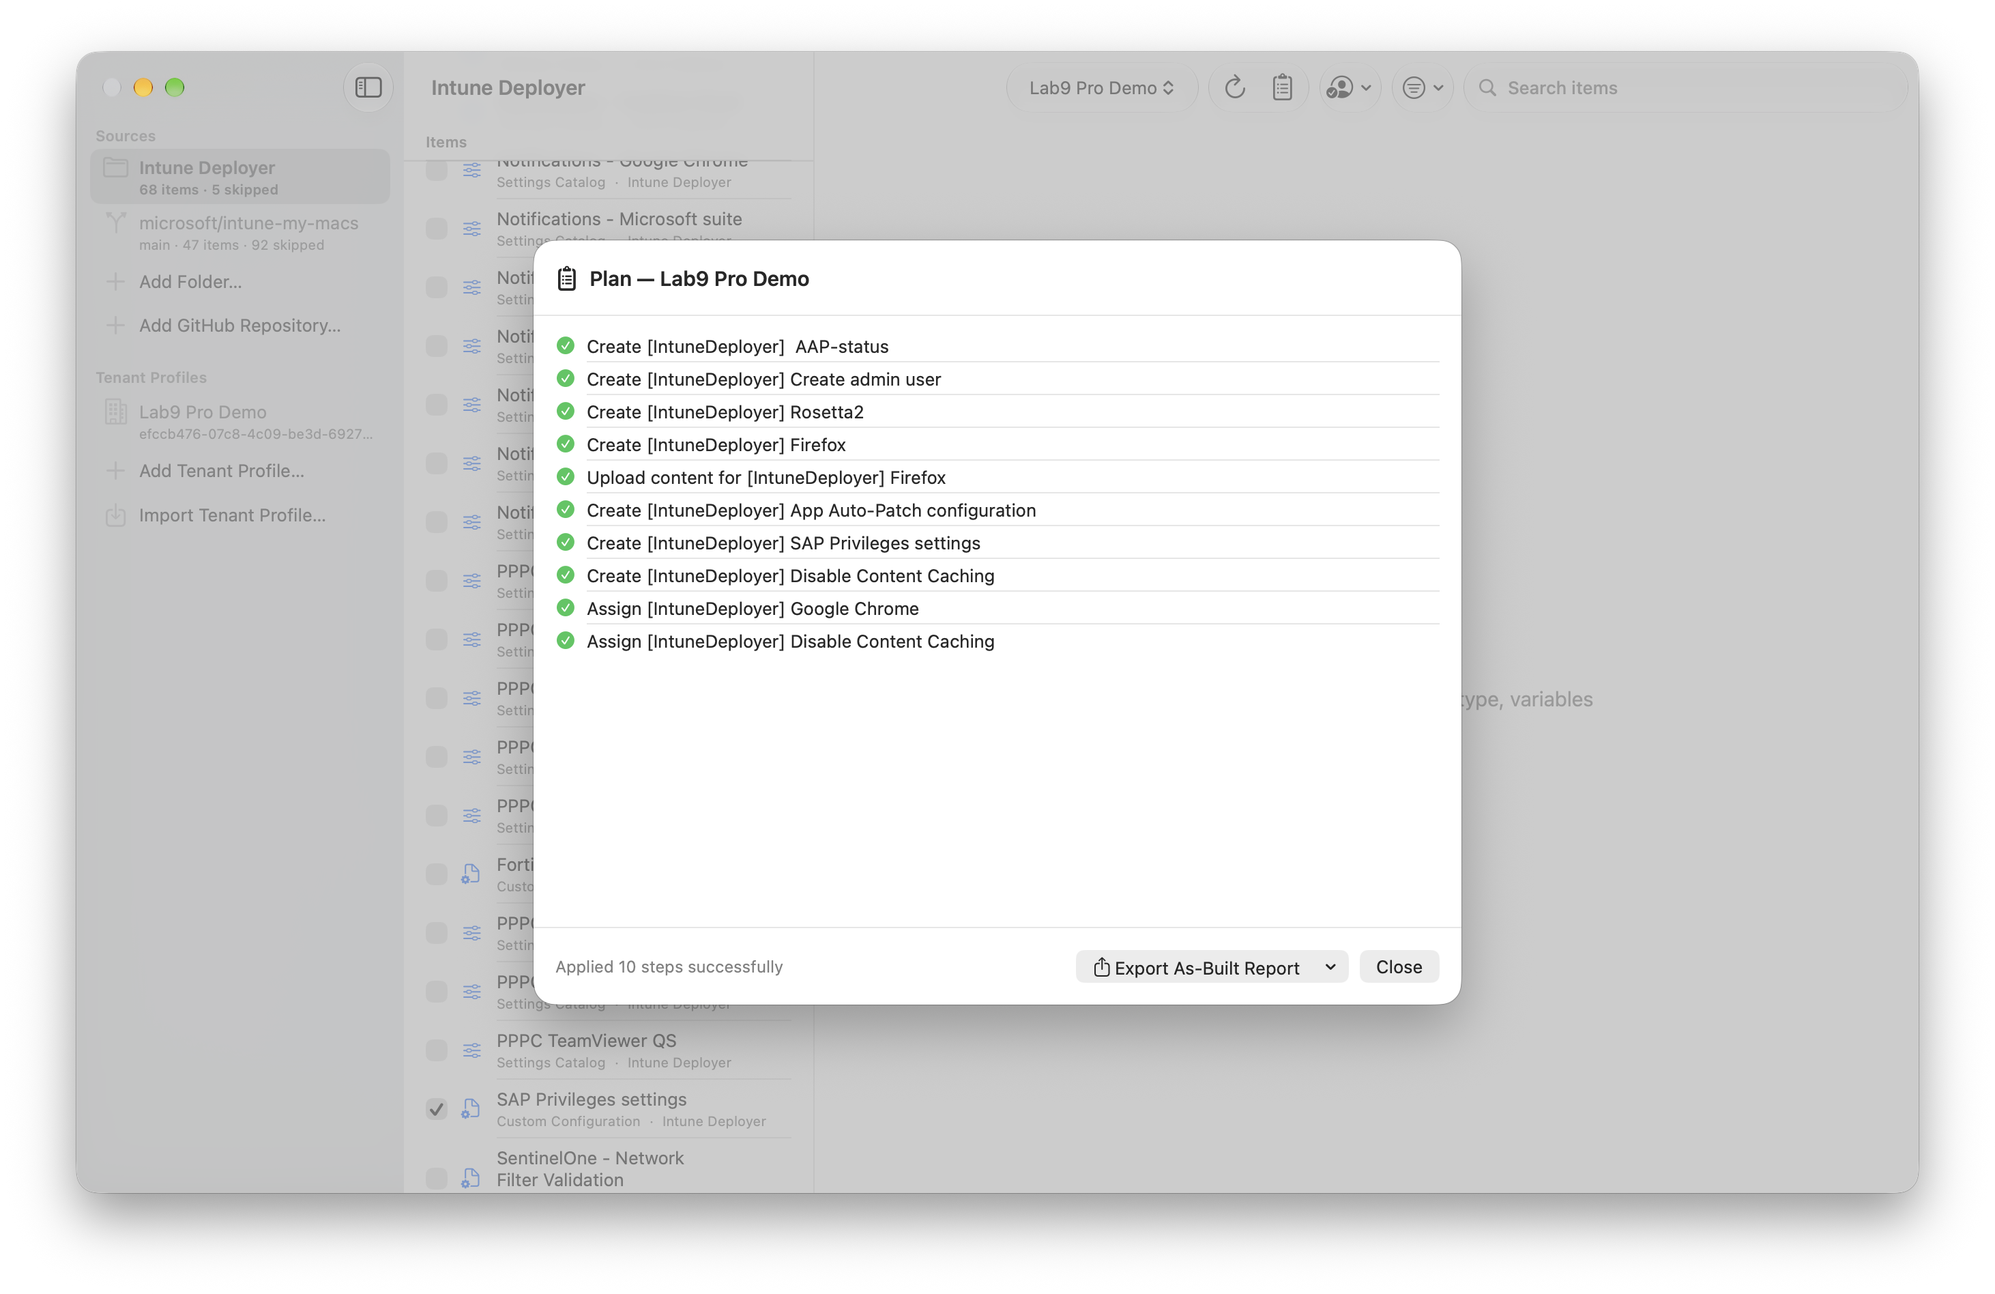
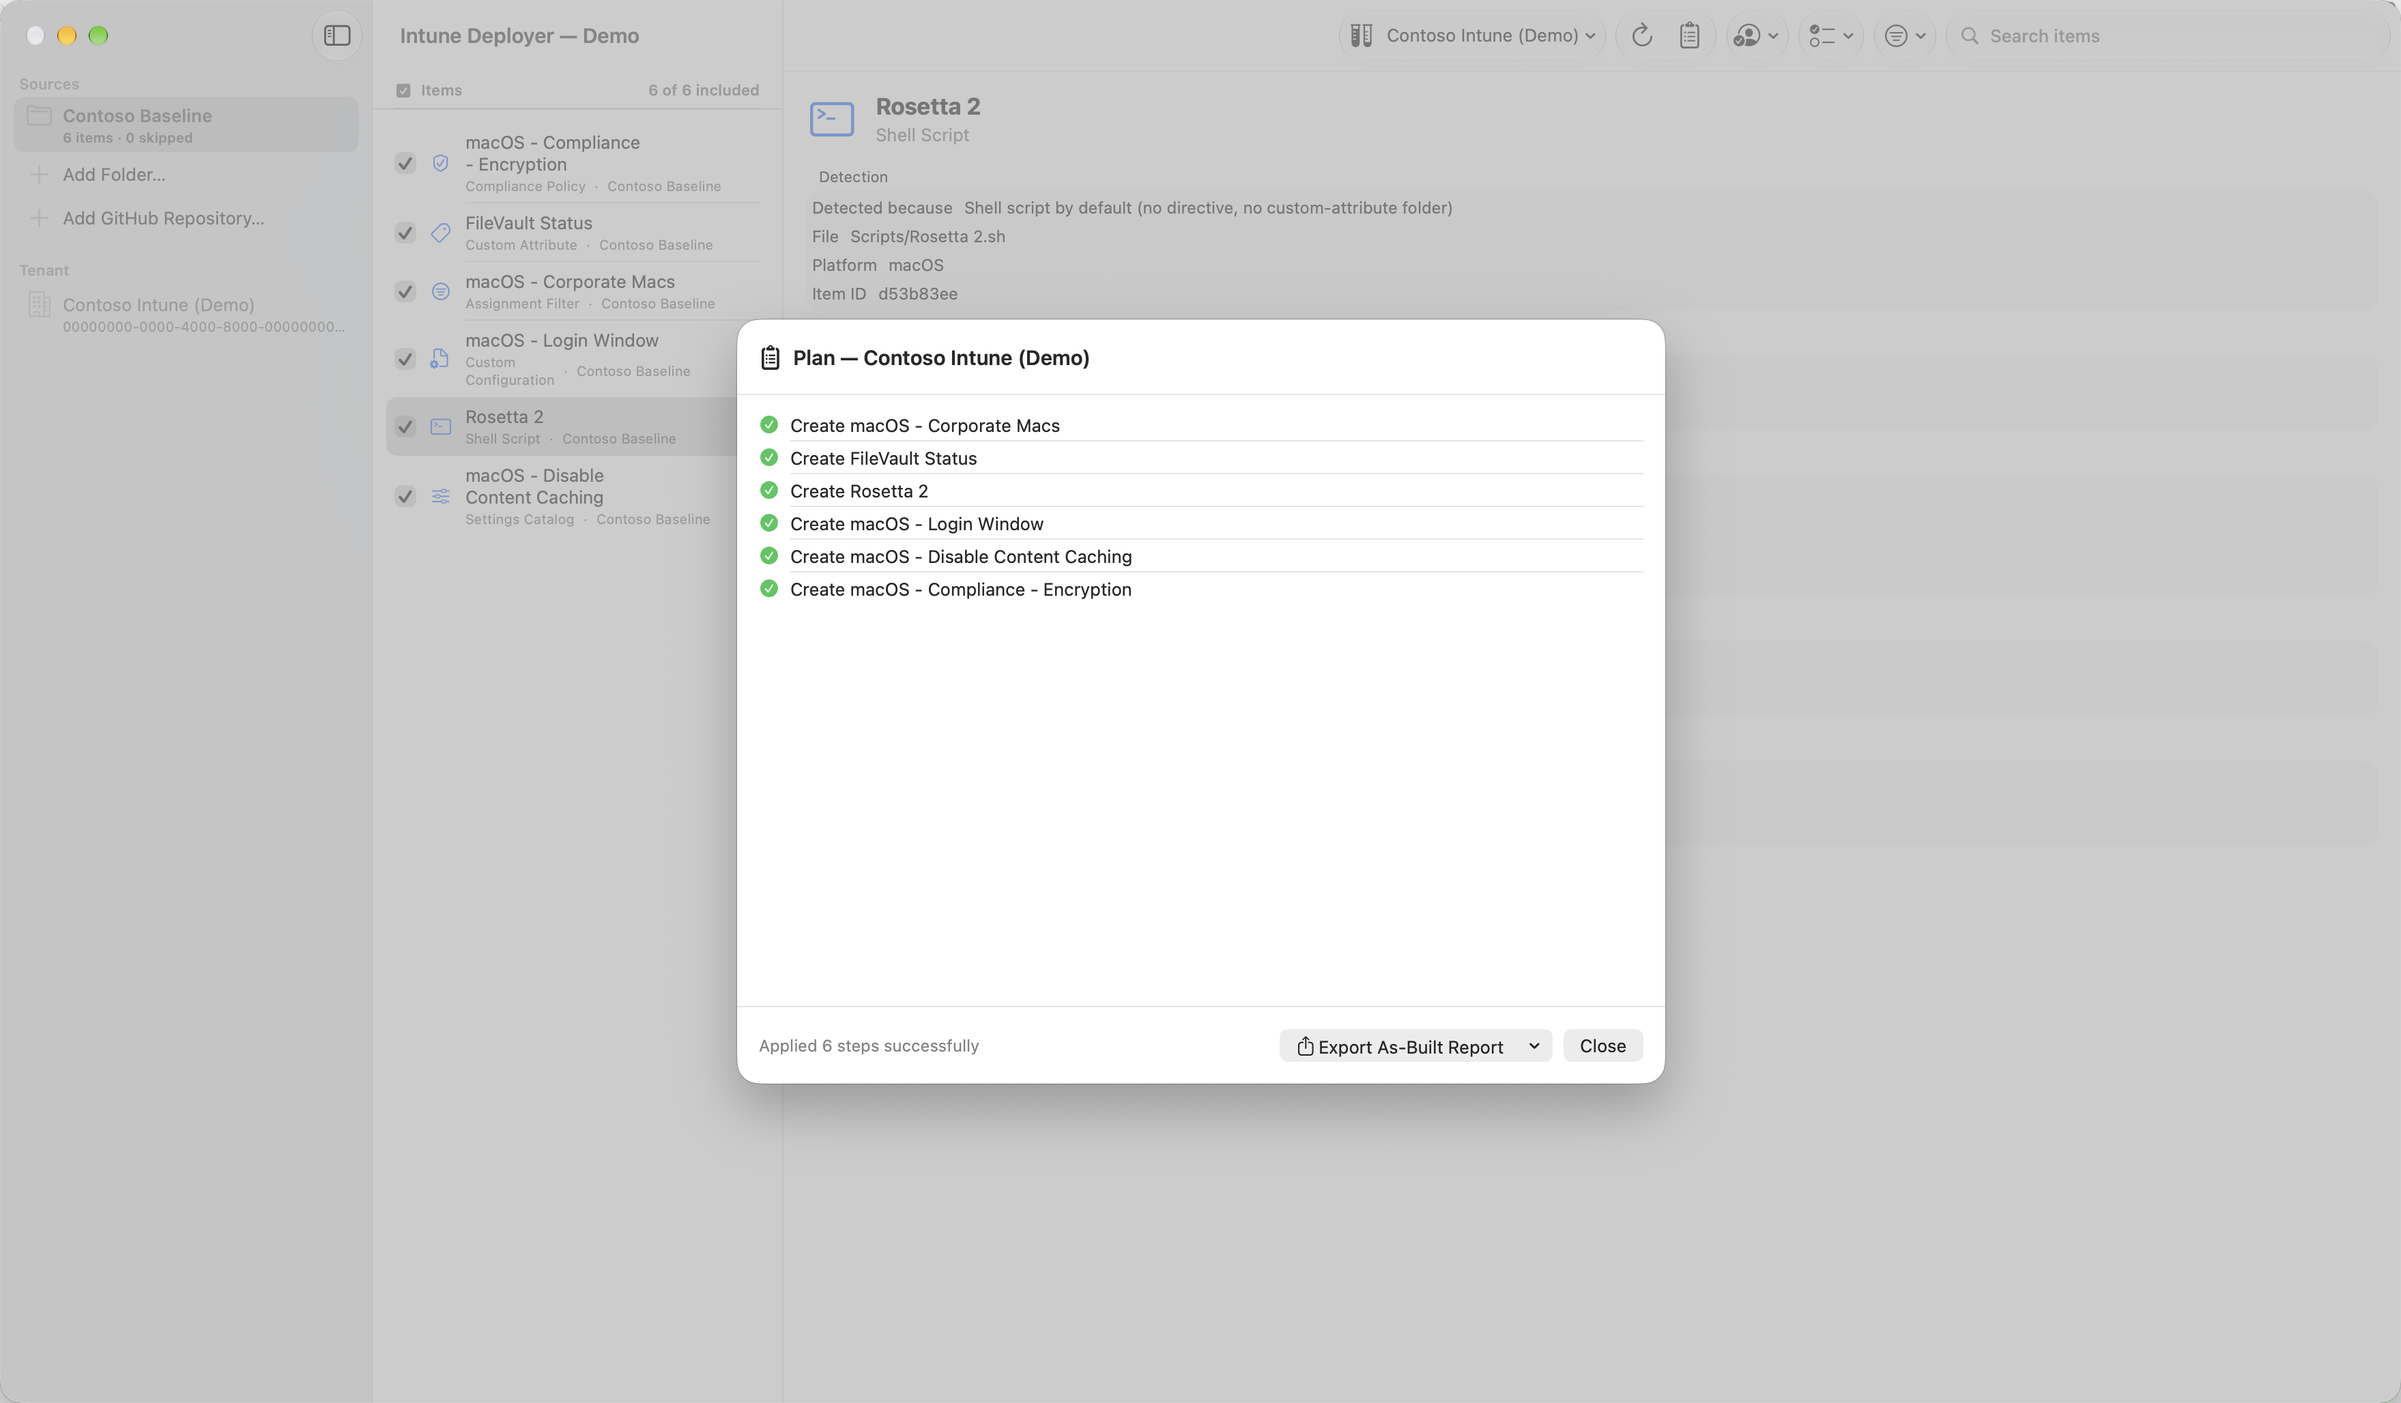
Documentation matches the current release

diff --git a/Intune DeployerUITests/ReadmeScreenshotsUITests.swift b/Intune DeployerUITests/ReadmeScreenshotsUITests.swift
@@ -1,0 +1,126 @@
+import XCTest
+import JTKitUITestSupport
+
+/// Takes the README's screenshots (docs/browser.png, plan.png, apply.png) in
+/// demo mode: "Contoso Intune (Demo)", sample files, nothing real. Not part
+/// of the release check; run it by hand when the interface changes:
+///
+///     xcodebuild test -project "Intune Deployer.xcodeproj" \
+///       -scheme "Intune Deployer Release Check" -resultBundlePath /tmp/shots.xcresult \
+///       -only-testing "Intune DeployerUITests/ReadmeScreenshotsUITests"
+///     xcrun xcresulttool export attachments --path /tmp/shots.xcresult --output-path /tmp/shots
+///
+/// The images are attached to the test result under their file names (the
+/// sandboxed test runner can't write into the repository).
+final class ReadmeScreenshotsUITests: JTKitUITestCase {
+
+    override var appName: String { "Intune Deployer" }
+
+    override func launchApp() {
+        launchInDemo()
+    }
+
+    override func didLaunch() {
+        XCTAssertTrue(app.windows.firstMatch.waitForExistence(timeout: 20), "The main window did not open")
+        let skip = app.buttons["Skip Tour"].firstMatch
+        if skip.waitForExistence(timeout: 3) { skip.click() }
+    }
+
+    func testReadmeScreenshots() throws {
+        try addBaseline()
+        // An item's details next to the list: its name, not its checkbox.
+        let item = app.staticTexts.matching(NSPredicate(format: "value == 'Rosetta 2' OR label == 'Rosetta 2'")).firstMatch
+        tap(item, timeout: 10)
+        sleep(2)
+        save("browser")
+
+        // The Plan: creates and the demo tenant's left-over to delete (not ticked).
+        tap(app.toolbars.buttons["Plan"].firstMatch, timeout: 10)
+        let plan = app.sheets.firstMatch
+        XCTAssertTrue(plan.waitForExistence(timeout: 10), "The Plan didn't open")
+        XCTAssertTrue(anyContaining("Create (").waitForExistence(timeout: 60), "The Plan shows no creates")
+        sleep(2)
+        save("plan")
+
+        // Apply and its results.
+        tap(plan.buttons["Apply…"], timeout: 10)
+        let confirm = dialogButton("Apply")
+        XCTAssertTrue(confirm.waitForExistence(timeout: 10), "Apply asks for no confirmation")
+        confirm.click()
+        XCTAssertTrue(anyContaining("Applied").waitForExistence(timeout: 120), "Apply didn't finish")
+        sleep(2)
+        save("apply")
+        tap(plan.buttons["Close"], timeout: 10)
+    }
+
+    // MARK: Helpers
+
+    /// Attaches the main window (with its sheet) as `<name>.png`.
+    private func save(_ name: String) {
+        let attachment = XCTAttachment(data: app.windows.firstMatch.screenshot().pngRepresentation,
+                                       uniformTypeIdentifier: "public.png")
+        attachment.name = "\(name).png"
+        attachment.lifetime = .keepAlways
+        add(attachment)
+    }
+
+    /// Writes a small sample baseline into the test's folder, adds it as a
+    /// source and includes every item.
+    private func addBaseline() throws {
+        let baseline = testFolder.appending(path: "Contoso Baseline", directoryHint: .isDirectory)
+        let files = [
+            "Settings Catalog/content-caching.json": """
+            {"name": "macOS - Disable Content Caching", "description": "", "platforms": "macOS", "technologies": "mdm",
+             "settings": [{"@odata.type": "#microsoft.graph.deviceManagementConfigurationSetting",
+               "settingInstance": {"@odata.type": "#microsoft.graph.deviceManagementConfigurationChoiceSettingInstance",
+                 "settingDefinitionId": "com.apple.applicationaccess_allowcontentcaching",
+                 "choiceSettingValue": {"value": "com.apple.applicationaccess_allowcontentcaching_false", "children": []}}}]}
+            """,
+            "Compliance/encryption.json": """
+            {"@odata.type": "#microsoft.graph.macOSCompliancePolicy", "displayName": "macOS - Compliance - Encryption",
+             "storageRequireEncryption": true,
+             "scheduledActionsForRule": [{"ruleName": "PasswordRequired",
+               "scheduledActionConfigurations": [{"actionType": "block", "gracePeriodHours": 24}]}]}
+            """,
+            "Filters/corporate-macs.json": """
+            {"displayName": "macOS - Corporate Macs", "platform": "macOS",
+             "rule": "(device.deviceOwnership -eq \\"Corporate\\")"}
+            """,
+            "Profiles/login-window.mobileconfig": """
+            <?xml version="1.0" encoding="UTF-8"?>
+            <!DOCTYPE plist PUBLIC "-//Apple//DTD PLIST 1.0//EN" "http://www.apple.com/DTDs/PropertyList-1.0.dtd">
+            <plist version="1.0"><dict>
+            <key>PayloadContent</key><array><dict>
+            <key>PayloadType</key><string>com.apple.loginwindow</string>
+            <key>PayloadIdentifier</key><string>com.contoso.loginwindow.payload</string>
+            <key>PayloadUUID</key><string>6F3C2A10-1B5E-4C3B-9E0A-2D4F5A6B7C81</string>
+            <key>PayloadVersion</key><integer>1</integer>
+            <key>LoginwindowText</key><string>Property of Contoso</string>
+            </dict></array>
+            <key>PayloadDisplayName</key><string>macOS - Login Window</string>
+            <key>PayloadIdentifier</key><string>com.contoso.loginwindow</string>
+            <key>PayloadType</key><string>Configuration</string>
+            <key>PayloadUUID</key><string>0A1B2C3D-4E5F-4061-8273-94A5B6C7D8E9</string>
+            <key>PayloadVersion</key><integer>1</integer>
+            </dict></plist>
+            """,
+            "Scripts/Rosetta 2.sh": "#!/bin/zsh\n# intune: runAsAccount=system retries=3\n/usr/sbin/softwareupdate --install-rosetta --agree-to-license\n",
+            "CustomAttributes/FileVault Status.sh": "#!/bin/zsh\n/usr/bin/fdesetup status\n",
+        ]
+        for (path, text) in files {
+            let url = baseline.appending(path: path)
+            try FileManager.default.createDirectory(at: url.deletingLastPathComponent(), withIntermediateDirectories: true)
+            try Data(text.utf8).write(to: url)
+        }
+        tap(app.buttons["Add Folder…"].firstMatch, timeout: 15)
+        goToFolder(baseline.path)
+        tap(app.buttons["OKButton"].firstMatch, timeout: 15)
+        let source = app.outlines["Sidebar"].staticTexts
+            .matching(NSPredicate(format: "value == 'Contoso Baseline' OR label == 'Contoso Baseline'")).firstMatch
+        tap(source, timeout: 30)
+        XCTAssertTrue(anyContaining("Rosetta 2").waitForExistence(timeout: 30), "The baseline's items aren't listed")
+        let selection = app.toolbars.menuButtons["Selection"].firstMatch
+        tap(selection.exists ? selection : app.menuButtons["Selection"].firstMatch, timeout: 10)
+        tap(app.menuItems["Include All Shown"].firstMatch, timeout: 5)
+    }
+}

diff --git a/README.md b/README.md
@@ -6,8 +6,8 @@ Microsoft Intune.
 Point it at one or more folders (or GitHub repositories) of plain configuration
 files — Settings Catalog JSON, `.mobileconfig` profiles, compliance policies,
 shell scripts, custom attributes, assignment filters, app packages — pick what
-you want, review a dry-run plan, and apply it to an Entra tenant through
-Microsoft Graph. No manifests, no PowerShell.
+you want, review a dry-run plan, and apply it to a Microsoft Intune tenant
+through Microsoft Graph. No manifests, no PowerShell.
 
 - **Dry-run by default.** Nothing is written to a tenant without an explicit
   Apply with a confirmation summary.
@@ -25,7 +25,8 @@ Microsoft Graph. No manifests, no PowerShell.
 | --- | --- |
 | ![Plan sheet with grouped actions](docs/plan.png) | ![Apply results with as-built export](docs/apply.png) |
 
-Requires macOS 15 or later.
+Requires macOS 15 or later, and a Microsoft Intune tenant with one app
+registration per tenant (see Setup).
 
 ## Download
 
@@ -43,22 +44,23 @@ time from **Help › Guided Tour**.
 
 ## Demo Mode
 
-To look around without a tenant, choose **Try Demo Mode** in the sidebar, or
-turn on Demo Mode from the tenant picker in the toolbar or the **Connection**
-menu. The app then works with "Contoso Intune (Demo)", a sample tenant inside
-the app: nothing is sent to a real tenant and no sign-in is needed. Plan,
-Apply, Remove Baseline, tenant export and Preflight run for real against the
-sample tenant, with their usual confirmations. Your baseline sources, item
-edits and platform choices stay as they are.
+To look around without a tenant, choose **Try Demo Mode** in the sidebar
+(shown while no tenant profile is saved), or turn on Demo Mode from the
+tenant picker in the toolbar or the **Connection** menu. The app then works
+with "Contoso Intune (Demo)", a sample tenant inside the app: nothing is
+sent to a real tenant and no sign-in is needed. Plan, Apply, Remove
+Baseline, tenant export and Preflight run for real against the sample
+tenant, with their usual confirmations. Your baseline sources, item edits
+and platform choices stay as they are.
 
 ## Setup
 
 ### 1. Create an app registration (per tenant)
 
-For every Entra tenant you deploy to, an admin creates one app registration in
+For every Microsoft Entra tenant you deploy to, an admin creates one app registration in
 that tenant:
 
-1. [Entra admin center](https://entra.microsoft.com) › **App registrations** ›
+1. [Microsoft Entra admin center](https://entra.microsoft.com) › **App registrations** ›
    **New registration**.
 2. Name it (e.g. "Intune Deployer"), choose **Accounts in this organizational
    directory only**, and register. **No client secret or certificate** — the
@@ -91,7 +93,7 @@ can do is the intersection of these scopes and the user’s Intune RBAC role).
 | `DeviceManagementConfiguration.ReadWrite.All` | Creating/updating profiles, compliance, filters | First Apply |
 | `DeviceManagementScripts.ReadWrite.All` | Creating/updating scripts and custom attributes | First Apply |
 | `DeviceManagementApps.ReadWrite.All` | Creating/updating apps and uploading content | First Apply |
-| `Group.ReadWrite.All` | Creating missing static groups (opt-in per profile) | First Apply with group creation enabled |
+| `Group.ReadWrite.All` | Creating missing static groups (opt-in per profile); deleting empty groups the profile created on Remove Baseline | First Apply with group creation enabled, or Remove Baseline when it deletes groups |
 
 ### 3. Baseline sources
 
@@ -99,8 +101,8 @@ Add a **local folder** or **any GitHub repository** (owner/repo, optional
 subfolder, optional release tag prefix such as `macos-v`). GitHub sources
 download the latest matching published release (or the default branch when the
 repo has no releases), are cached locally, and show an update badge when a
-newer matching release exists (checked at launch, on refresh, and from the
-source’s context menu). Private repositories work with a fine-grained personal
+newer matching release exists (checked at launch, on refresh (⌘R), and from
+the source’s context menu). Private repositories work with a fine-grained personal
 access token (read-only Contents permission), stored in the Keychain via
 **Settings › GitHub**.
 
@@ -195,7 +197,7 @@ time; Apply is blocked while any selected item has an unresolved token.
 ### Assignments
 
 Per item and per tenant: leave unchanged, or one or more targets — all
-devices, all users, or a static Entra group resolved by display name
+devices, all users, or a static Microsoft Entra group resolved by display name
 (optionally created on Apply when enabled in the profile). Groups can also be
 **excluded**; exclusions take precedence in Intune and can’t carry a filter.
 Including and excluding the same group is a plan error. Applying an item’s
@@ -229,7 +231,7 @@ before assignment. Bundle ID/version come from the package itself —
 `Distribution`/`PackageInfo` for .pkg, the app bundle’s Info.plist for .dmg
 and .ipa. The publisher field defaults to the app name; adjust it in the
 Intune admin center if needed. Re-uploads happen only when the bundle version, build number or file
-name changes.
+name changes (for an `.ipa`, also the provisioning expiry).
 
 `.ipa` support is a **preview**: the upload follows Microsoft’s LOB sample,
 but it has not yet been verified against a production deployment. The .ipa
@@ -288,10 +290,12 @@ and release tag are shown with every item.
 - Orphaned objects (tagged but no longer selected) are only deleted when
   explicitly ticked, and only the tenant profile’s own objects are listed.
   Objects deployed before profile tags count as the profile’s when their name
-  carries its naming prefix.
+  carries its naming prefix. With two or more deletions ticked, Apply asks you
+  to type the number of deletions first.
 - **Remove Baseline** deletes the tenant profile’s own tagged objects, the
-  built-in template filters it created and the groups its assignments name
-  that have no members, after typing the tenant profile name to confirm. Other profiles’
+  built-in template filters it created, and the groups it created that still
+  have no members (other groups its assignments name are listed and kept),
+  after typing the tenant profile name to confirm. Other profiles’
   objects and untagged objects are never touched.
 - Every write is sent only with a sign-in token of the profile’s tenant; a
   profile with a verified domain is checked against that tenant’s domains
@@ -309,16 +313,39 @@ and release tag are shown with every item.
   their identities.
 - Saved files the app can’t read (sources, item edits, platform choices) are
   copied aside and never saved over; an alert says so.
-- The activity log (⌘⇧L) records every Graph request — never tokens or
-  payloads.
+- The activity log (⇧⌘L) records every Graph, GitHub and upload request
+  (method, address, status and redacted headers). It never records tokens or
+  request bodies; error responses are recorded with secrets redacted.
+
+## Network and stored data
+
+The app contacts only:
+
+- `login.microsoftonline.com` (Microsoft sign-in through MSAL) and
+  `graph.microsoft.com` (reading and writing Intune objects);
+- Azure Storage, at the upload address Intune gives for each app package;
+- `api.github.com` and `github.com`, for GitHub sources and the daily update
+  check.
+
+Tenant profiles, sources, item edits, platform choices and the GitHub cache
+are stored in `~/Library/Containers/be.jordythery.intune-deployer/Data/Library/Application Support/Intune Deployer`.
+The GitHub token is in the Keychain (service
+`be.jordythery.intune-deployer.github`); Microsoft sign-ins are kept by MSAL
+in the Keychain.
 
 ## Building from source
 
-1. Open `Intune Deployer.xcodeproj` in Xcode 26 or later (the MSAL Swift
-   package resolves on first build).
+1. Open `Intune Deployer.xcodeproj` in Xcode 26 or later. Swift Package
+   Manager resolves JTKit and, through it, MSAL 2.16.0 on first build.
 2. Set your own development team and (optionally) bundle ID — remember the
    bundle ID is part of the redirect URI your app registrations must use.
 3. Build and run (macOS 15+). Tests: ⌘U.
+
+The app’s only package dependency is
+[JTKit](https://github.com/JordyThery/JTKit), the shared package of these
+apps. Resolving it also downloads Microsoft’s MSAL, which JTKit uses for
+Intune sign-in; this app links and ships it for that sign-in (see
+[THIRD-PARTY-NOTICES.md](THIRD-PARTY-NOTICES.md)).
 
 ## Support
 

diff --git a/WATCHLIST.md b/WATCHLIST.md
@@ -6,4 +6,4 @@ What this app is waiting for from Apple, Jamf or Microsoft, or must recheck. Che
 - **Scripts and custom attributes on Graph beta (Microsoft):** both are beta. Recheck whether they reach v1.0.
 - **ADE settings on Graph beta (Microsoft):** beta only (MDM authority and the APNs certificate are read from v1.0). Recheck whether they reach v1.0.
 - **Still unverified, marked `TODO(verify)` in code (Microsoft):** Settings Catalog PUT with inline settings and its assign body; `configurationSettings` `$filter`/`$top`; exclusions alongside mixed Required/Available app intents. Verify against a real tenant.
-- **`.ipa` upload (Microsoft):** still unverified (`TODO(verify)`) and labelled "preview" in the README until a real signed `.ipa` deployment confirms it.
+- **`.ipa` upload (Microsoft):** still unverified (`TODO(verify)`) and labeled "preview" in the README until a real signed `.ipa` deployment confirms it.
